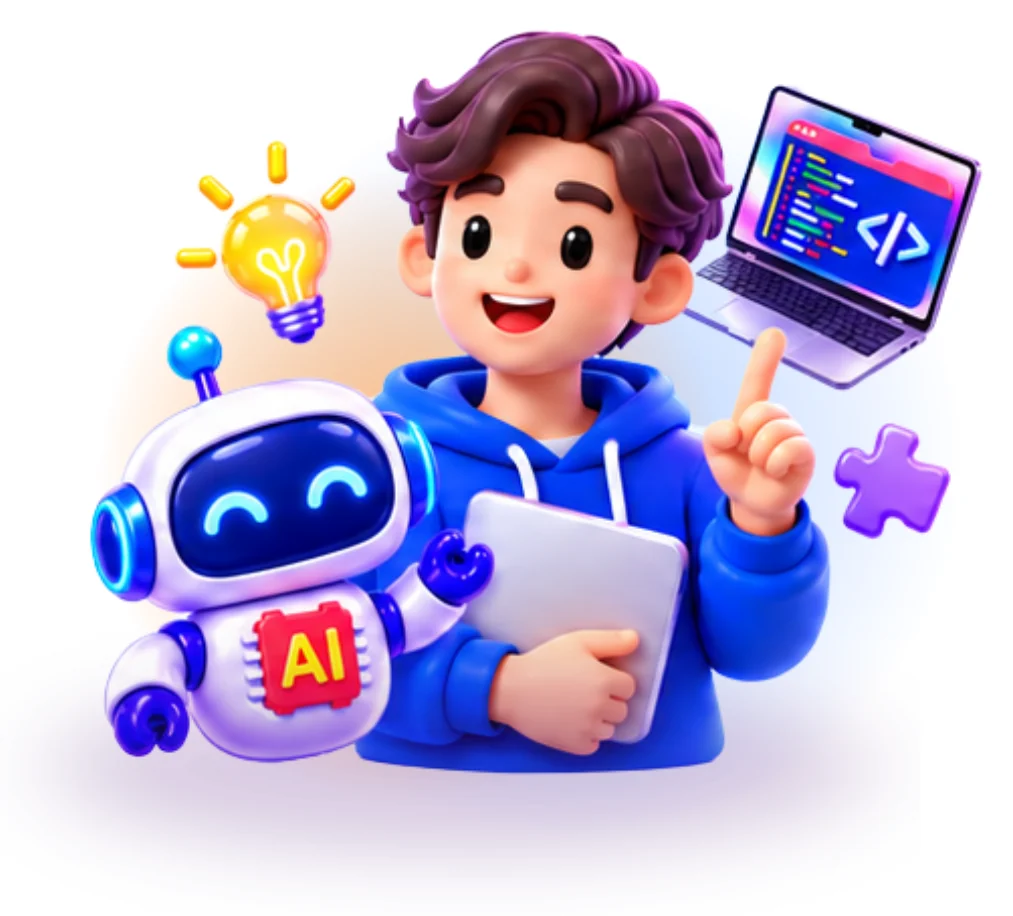
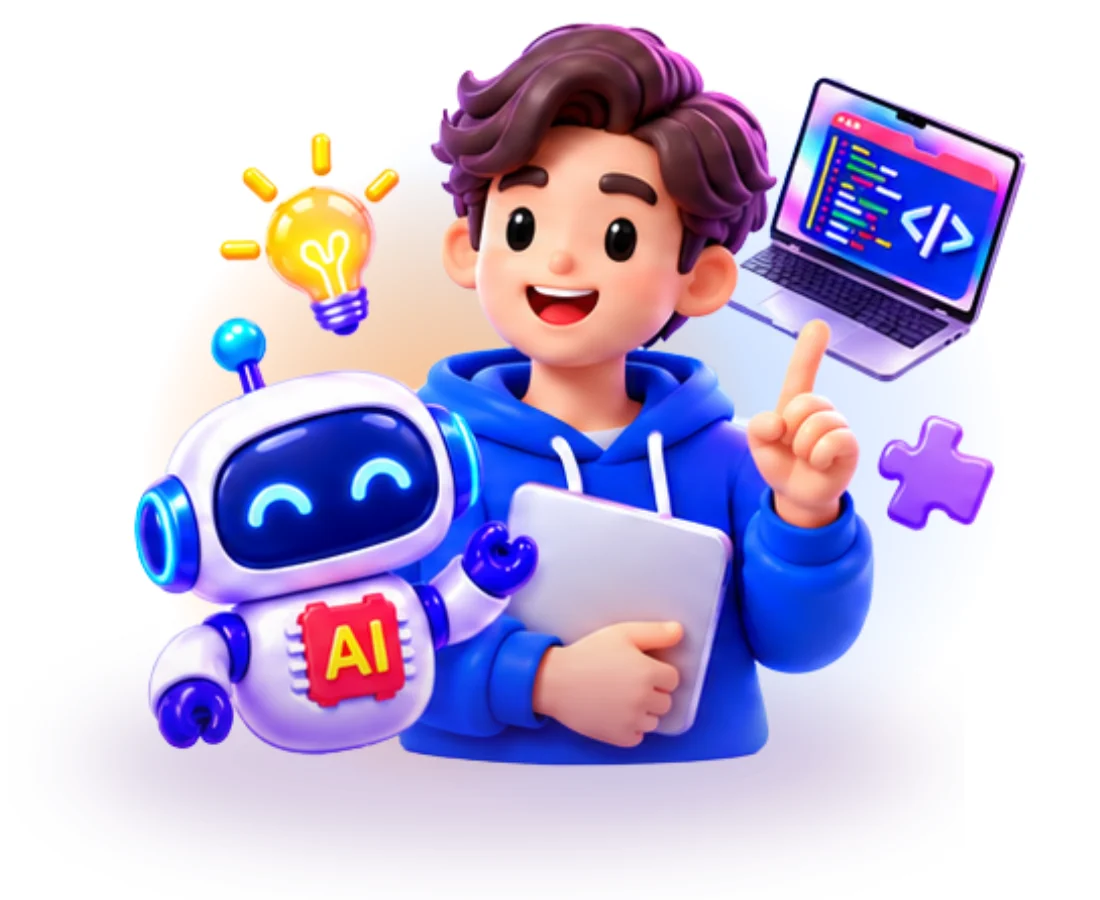
feat(web): the Nestlé page's hero is the blue band with a tinted strip of facts (BEY-155)
The hero was a white card and lost the colour the list card and the campaign's own
page have. It now uses the band of the Tasco hero, the key visual as a white tile on
it, the four facts on the accent surface under it, and the lead below on the page.
cover.webp is the tile on the same blue, for the program's cover.

Changed region(s): [[0.0918, 0.0, 0.9793, 0.8711]]

diff --git a/web/src/features/program/nestle/nestle-page.tsx b/web/src/features/program/nestle/nestle-page.tsx
@@ -101,68 +101,73 @@ async function NestlePage({ program }: { program: Program }) {
       <div className="mx-auto flex w-full max-w-7xl flex-col gap-8 px-4 pt-6 pb-16 md:px-8">
         <ProgramBreadcrumb name={program.name} />
 
-        <header className="flex flex-col gap-8 rounded-3xl border bg-card p-6 md:p-10">
-          <div className="flex flex-col gap-8 lg:flex-row lg:items-center lg:gap-12">
-            <div className="flex min-w-0 flex-1 flex-col gap-4">
-              <div className="flex">
-                <Badge variant={open ? "success" : "info"}>{page(`phase.${program.phase}`)}</Badge>
-              </div>
-              <h1 className="text-4xl font-semibold tracking-headline md:text-5xl">
-                {program.name}
-              </h1>
-              <p className="max-w-xl text-xl font-semibold text-primary">{t("hero.tagline")}</p>
-              <div className="flex flex-col gap-3 pt-2 sm:flex-row sm:items-center">
-                {open && (
-                  <Button size="lg" href={apply}>
-                    {page("applyNow")}
+        <div className="flex flex-col gap-6">
+          <header className="flex flex-col overflow-hidden rounded-3xl border">
+            <div className="flex flex-col gap-8 bg-primary bg-linear-150 from-foreground/60 via-transparent via-60% to-transparent p-6 text-primary-foreground md:p-10 lg:flex-row lg:items-center lg:gap-12 dark:from-transparent">
+              <div className="flex min-w-0 flex-1 flex-col gap-4">
+                <div className="flex">
+                  <Badge variant={open ? "success" : "info"}>
+                    {page(`phase.${program.phase}`)}
+                  </Badge>
+                </div>
+                <h1 className="text-4xl font-semibold tracking-headline md:text-5xl">
+                  {program.name}
+                </h1>
+                <p className="max-w-xl text-xl font-semibold">{t("hero.tagline")}</p>
+                <div className="flex flex-col gap-3 pt-2 sm:flex-row sm:items-center">
+                  {open && (
+                    <Button size="lg" prominence="secondary" href={apply}>
+                      {page("applyNow")}
+                    </Button>
+                  )}
+                  <Button size="lg" prominence="inverse" href="#areas">
+                    {t("hero.explore")}
+                    <ArrowDownIcon aria-hidden="true" />
                   </Button>
+                </div>
+                {open && (
+                  <p className="text-sm">
+                    <ProgramCountdown
+                      deadline={applications.closesAt}
+                      closes={deadlineText(format, applications)}
+                    />
+                  </p>
                 )}
-                <Button size="lg" prominence="secondary" href="#areas">
-                  {t("hero.explore")}
-                  <ArrowDownIcon aria-hidden="true" />
-                </Button>
               </div>
-              {open && (
-                <p className="text-sm text-muted-foreground">
-                  <ProgramCountdown
-                    deadline={applications.closesAt}
-                    closes={deadlineText(format, applications)}
-                  />
-                </p>
-              )}
+              {/* The key visual keeps its white ground, which is the tile it stands on. */}
+              <Image
+                src="/programs/nestle/key-visual.webp"
+                alt={t("hero.imageAlt")}
+                width={1100}
+                height={900}
+                priority
+                sizes="(min-width: 1024px) 26rem, (min-width: 640px) 24rem, 100vw"
+                className="h-auto w-full max-w-sm self-center rounded-3xl lg:w-104 lg:max-w-none"
+              />
             </div>
-            <Image
-              src="/programs/nestle/key-visual.webp"
-              alt={t("hero.imageAlt")}
-              width={1013}
-              height={916}
-              priority
-              sizes="(min-width: 1024px) 26rem, (min-width: 640px) 24rem, 100vw"
-              className="h-auto w-full max-w-sm self-center rounded-2xl lg:w-104 lg:max-w-none"
-            />
-          </div>
+            <dl className="grid gap-x-6 gap-y-5 bg-accent p-6 sm:grid-cols-2 md:px-10 lg:grid-cols-4">
+              {facts.map(([fact, Icon]) => (
+                // A group of a description list holds only its term and description, so the icon
+                // stands inside the term.
+                <div key={fact} className="flex flex-col gap-1.5">
+                  <dt className="flex items-center gap-2 text-xs font-semibold tracking-wide text-muted-foreground uppercase">
+                    <Icon className="size-4 shrink-0 text-primary" aria-hidden="true" />
+                    {t(`hero.facts.${fact}.label`)}
+                  </dt>
+                  <dd className="font-semibold">
+                    {fact === "closes" && closes ? closes : t(`hero.facts.${fact}.value`)}
+                  </dd>
+                </div>
+              ))}
+            </dl>
+          </header>
           <div className="grid gap-4 md:grid-cols-5 md:gap-10">
             <p className="text-lg text-muted-foreground md:col-span-3">{t("hero.lead")}</p>
             <p className="self-start border-l-2 border-primary pl-3 text-sm font-medium md:col-span-2">
               {t("hero.open")}
             </p>
           </div>
-          <dl className="grid gap-x-6 gap-y-5 border-t pt-6 sm:grid-cols-2 lg:grid-cols-4">
-            {facts.map(([fact, Icon]) => (
-              // A group of a description list holds only its term and description, so the icon
-              // stands inside the term.
-              <div key={fact} className="flex flex-col gap-1.5">
-                <dt className="flex items-center gap-2 text-xs font-semibold tracking-wide text-muted-foreground uppercase">
-                  <Icon className="size-4 shrink-0 text-primary" aria-hidden="true" />
-                  {t(`hero.facts.${fact}.label`)}
-                </dt>
-                <dd className="font-semibold">
-                  {fact === "closes" && closes ? closes : t(`hero.facts.${fact}.value`)}
-                </dd>
-              </div>
-            ))}
-          </dl>
-        </header>
+        </div>
 
         <nav aria-label={t("nav.label")} className="border-b">
           <ul className="flex flex-wrap gap-x-6 text-sm">
@@ -348,8 +353,8 @@ async function NestlePage({ program }: { program: Program }) {
             <Image
               src="/programs/nestle/key-visual.webp"
               alt=""
-              width={1013}
-              height={916}
+              width={1100}
+              height={900}
               sizes="(min-width: 768px) 22rem, 100vw"
               className="hidden h-auto rounded-2xl md:block md:w-88"
             />

diff --git a/docs/increments/active/bey-155-nestle-program-page/design.md b/docs/increments/active/bey-155-nestle-program-page/design.md
@@ -11,7 +11,7 @@ GenAI Fund ran this campaign on a page of its own (`nestleaihackathon.lovable.ap
 - **A written page** for the address `nestle-vietnam-ai-reinvention` (`web/src/features/program/nestle/`), registered in `custom-pages.ts`. No backend, contract or schema change.
 - **Same sections, order and wording as the campaign's page:** the deadline line, the hero with four facts, what the program offers, the six challenge areas, the program's use cases, how it works, who can apply with the six questions, the journey with the supporting activities, eight questions, the closing call and the note about the programme. The English is the client's; the Vietnamese is ours.
 - **The program's data, not page copy:** the deadline in the line above the page, in the hero and in the closing call, the timeline, the events with their registration link, the card to apply and Apply itself. Dates the client wrote inside sentences ("Apply before 5 November", "Matching Day, 3 Dec") stay as written and change with the catalogs.
-- **Images** under `web/public/programs/nestle/`: the key visual, the six area pictures, Nestlé's logo and the AI Hackathon 2026 logo, taken from the campaign's page and resized. The pictures and logos had a white ground, removed so they sit on any surface; the key visual keeps its white ground.
+- **Images** under `web/public/programs/nestle/`: the key visual, the six area pictures, Nestlé's logo and the AI Hackathon 2026 logo, taken from the campaign's page and resized. The pictures and logos had a white ground, removed so they sit on any surface. The key visual keeps its white ground and stands as a white tile on the hero's blue band: cut out, its pastel glow left a halo on blue. `cover.webp` is the same tile on the band's blue, for the operator to upload as the program's cover.
 
 ## Decisions
 
